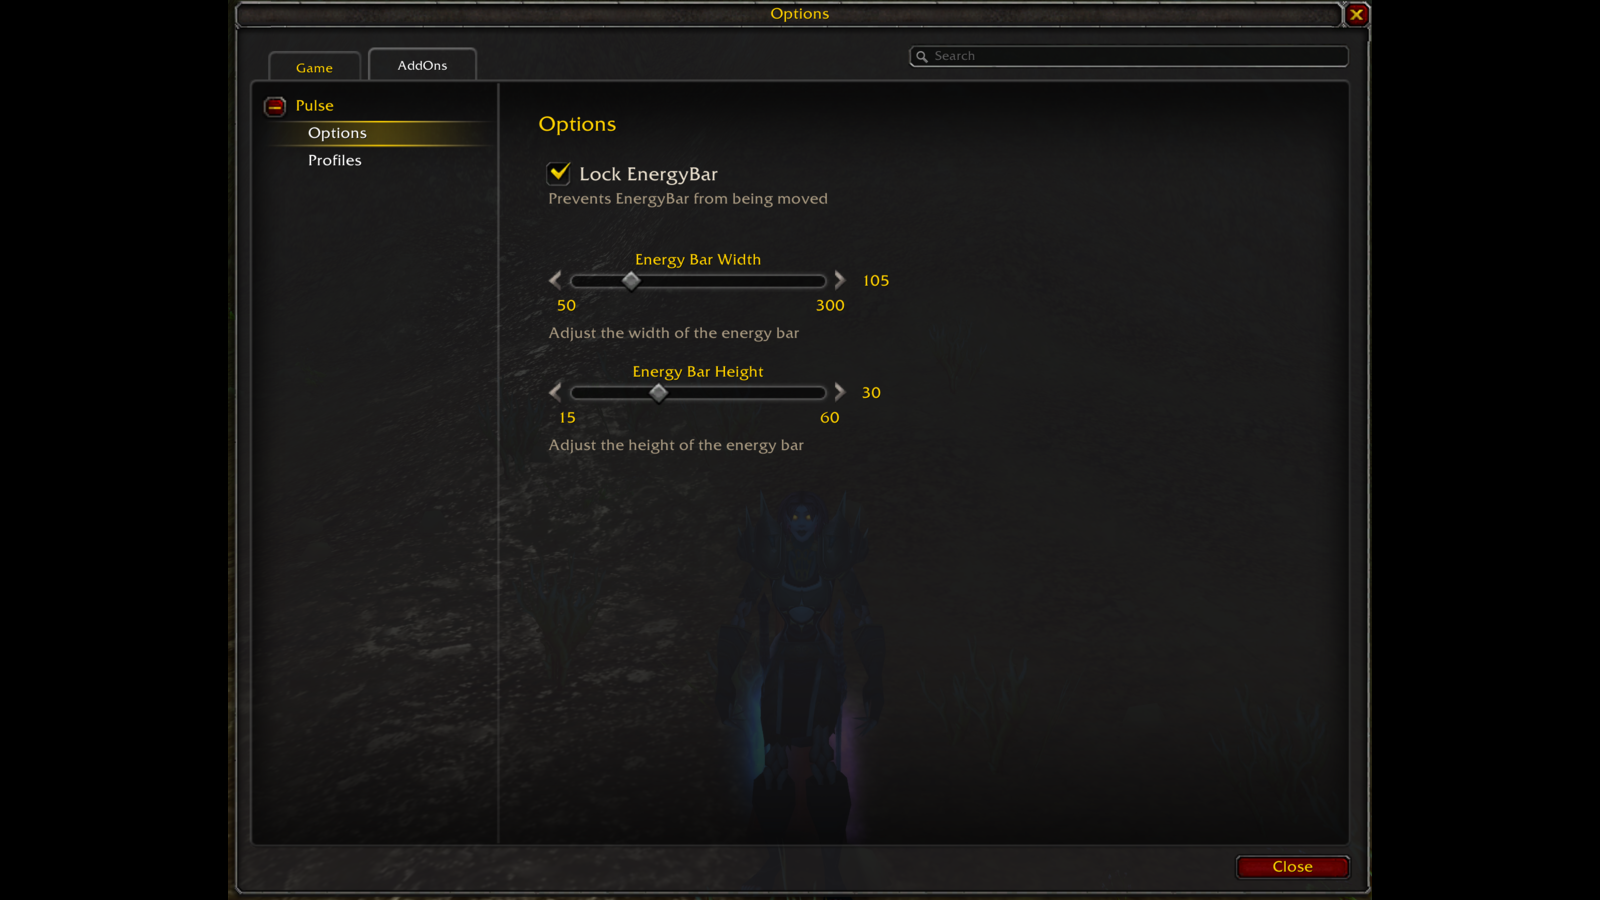
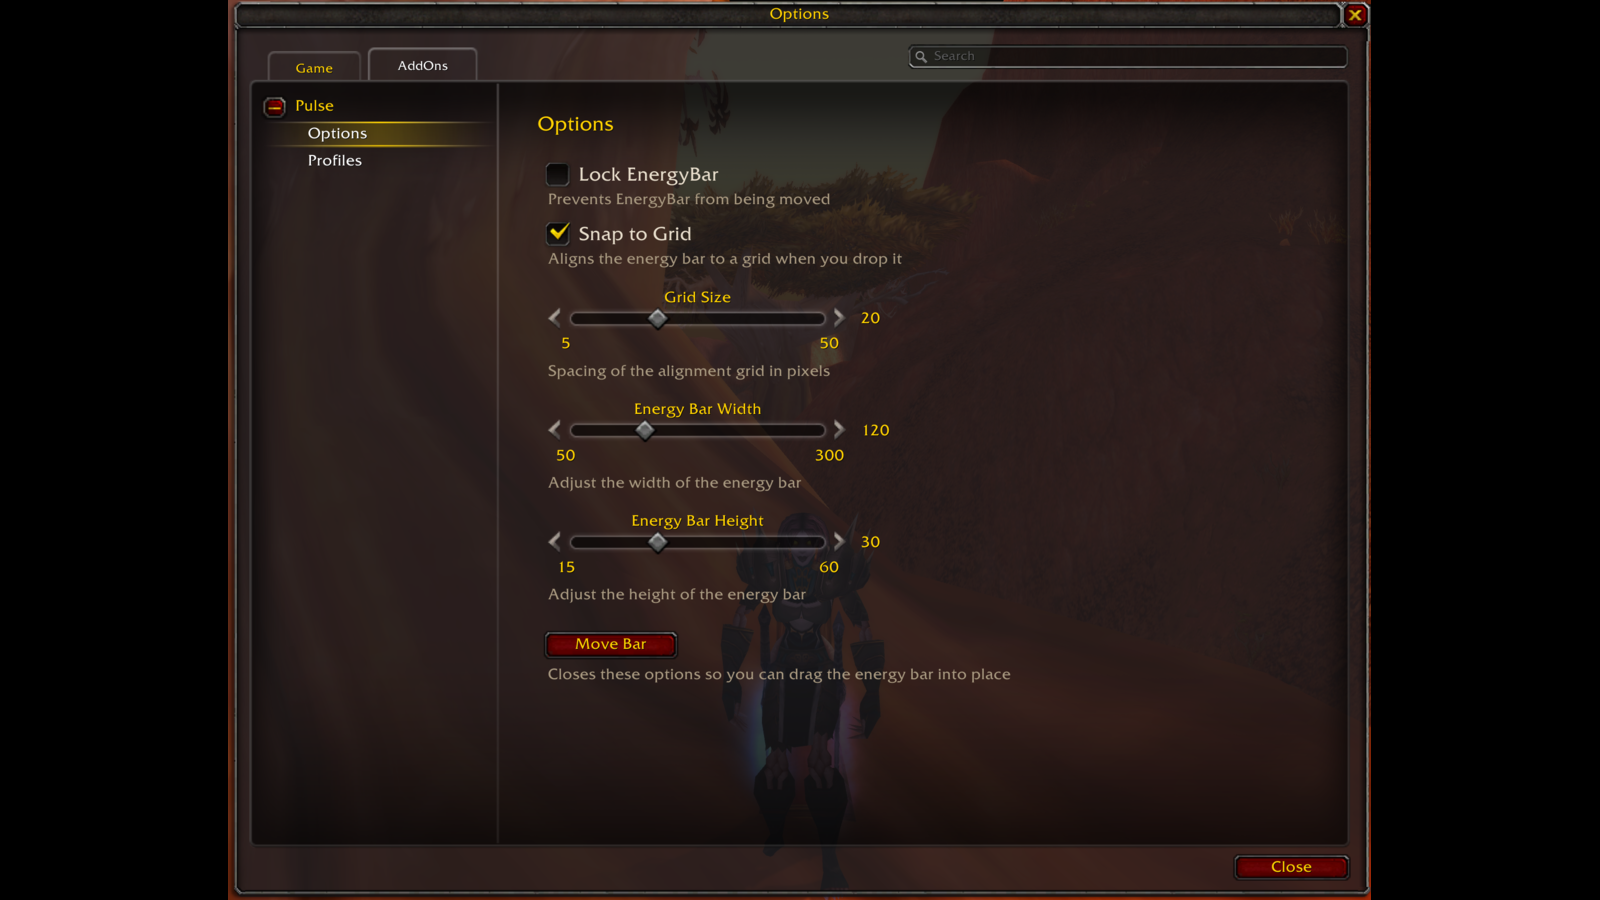
docs: Update DESCRIPTION.md with energy bar placement instructions and grid snapping details

diff --git a/DESCRIPTION.md b/DESCRIPTION.md
@@ -30,10 +30,20 @@ Pulse can be configured through the in-game interface options. Access the config
 &nbsp;  
 Alternatively, you can use the slash command: `/pulse opt` or `/rgp opt`
 
+### Placing the Energy Bar
+
+Click **Move Bar** in the options (or type `/pulse move`). Pulse closes the options window, brings the energy bar on screen and lets you drag it wherever you like – even if the bar is locked. Click **Done** when you are happy with the position and you are taken straight back to the options.
+&nbsp;  
+If **Snap to Grid** is enabled, the alignment grid is drawn while you are placing the bar and disappears again when you are done.
+
+![](https://raw.githubusercontent.com/RagedUnicorn/wow-pulse-meta/master/assets/pulse_grid_snap.png)
+
 ### Available Settings
 
 #### Energy Bar Positioning
 - **Lock Energy Bar**: When enabled, prevents the energy bar from being moved by dragging. When disabled, you can drag the energy bar to reposition it anywhere on your screen.
+- **Snap to Grid**: When enabled, the energy bar's top-left corner is aligned to a grid as soon as you drop it, which makes it easy to line the bar up with the rest of your UI. Disabled by default – placement stays free until you turn it on, and an already placed bar only moves the next time you drag it. The grid itself is drawn only while you are placing the bar, never during normal play.
+- **Grid Size**: The spacing of that grid in pixels. A smaller value allows finer placement, a larger value snaps in bigger steps. Only available while **Snap to Grid** is enabled.
 
 #### Energy Bar Dimensions
 - **Energy Bar Width**: Adjust the width of the energy bar to fit your UI layout. Use the slider to increase or decrease the horizontal size.
@@ -47,7 +57,7 @@ Pulse lets you save your configuration as named profiles, so you can switch betw
 
 ![](https://raw.githubusercontent.com/RagedUnicorn/wow-pulse-meta/master/assets/pulse_profile_configuration.png)
 
-A profile captures all of your Pulse settings – the energy bar lock state, its width and height, and its on-screen position.
+A profile captures all of your Pulse settings – the energy bar lock state, its grid snapping and grid size, its width and height, and its on-screen position.
 
 - **Save current as...**: Snapshots your current settings into a new named profile (or overwrites an existing one of the same name).
 - **Apply**: Loads the selected profile and applies its settings.
